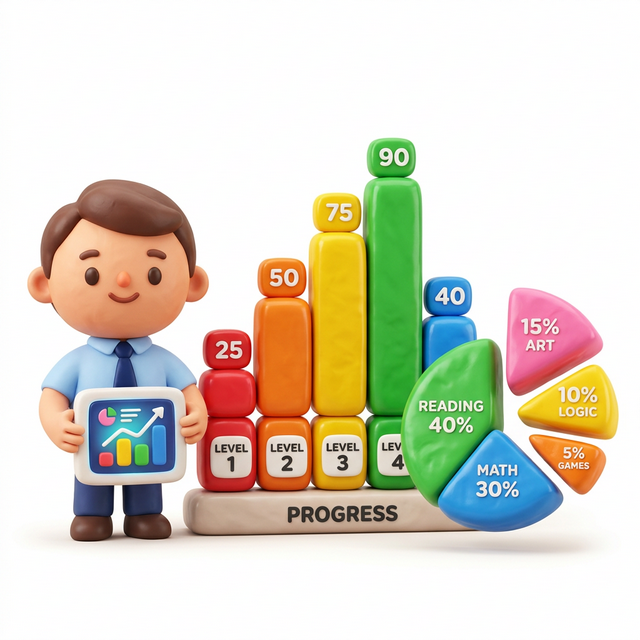
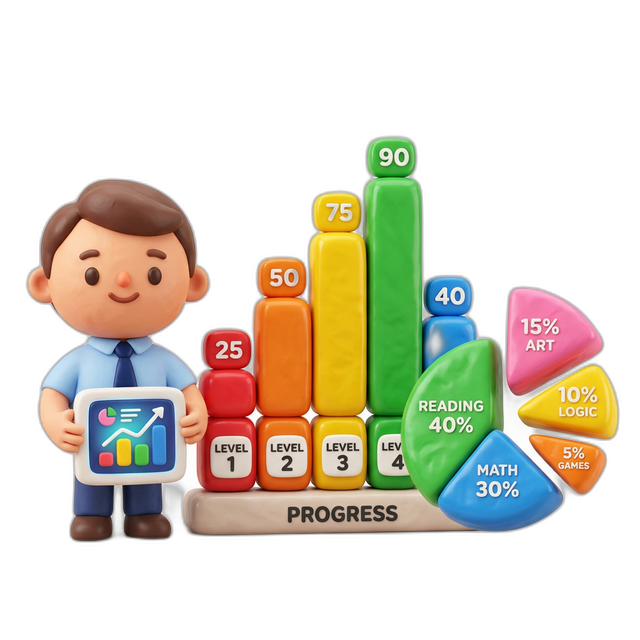
save local changes before merge

diff --git a/components/sections/KeyUseCases.tsx b/components/sections/KeyUseCases.tsx
@@ -108,7 +108,7 @@ function UseCaseCard({ title, desc, points, imageColor, imageSrc, imageAlt }: { 
                             <motion.img 
                                 src={imageSrc} 
                                 alt={imageAlt || title}
-                                className="absolute -bottom-8 -right-8 w-64 md:w-80 h-auto z-20 drop-shadow-2xl mix-blend-multiply"
+                                className="absolute -bottom-8 -right-8 w-64 md:w-80 h-auto z-20 drop-shadow-2xl"
                                 animate={{ y: [0, -12, 0] }}
                                 transition={{ repeat: Infinity, duration: 4, ease: "easeInOut" }}
                             />

diff --git a/remove_bg.py b/remove_bg.py
@@ -1,0 +1,18 @@
+from rembg import remove
+from PIL import Image
+import os
+import glob
+
+input_dir = r'public\images\use-cases'
+for img_path in glob.glob(os.path.join(input_dir, '*.png')):
+    if '_nobg' in img_path: continue
+    print(f"Processing {img_path}")
+    try:
+        with open(img_path, 'rb') as i:
+            input_data = i.read()
+            output_data = remove(input_data)
+        with open(img_path, 'wb') as o:
+            o.write(output_data)
+        print(f"Saved removed bg to {img_path}")
+    except Exception as e:
+        print(f"Error on {img_path}: {e}")
